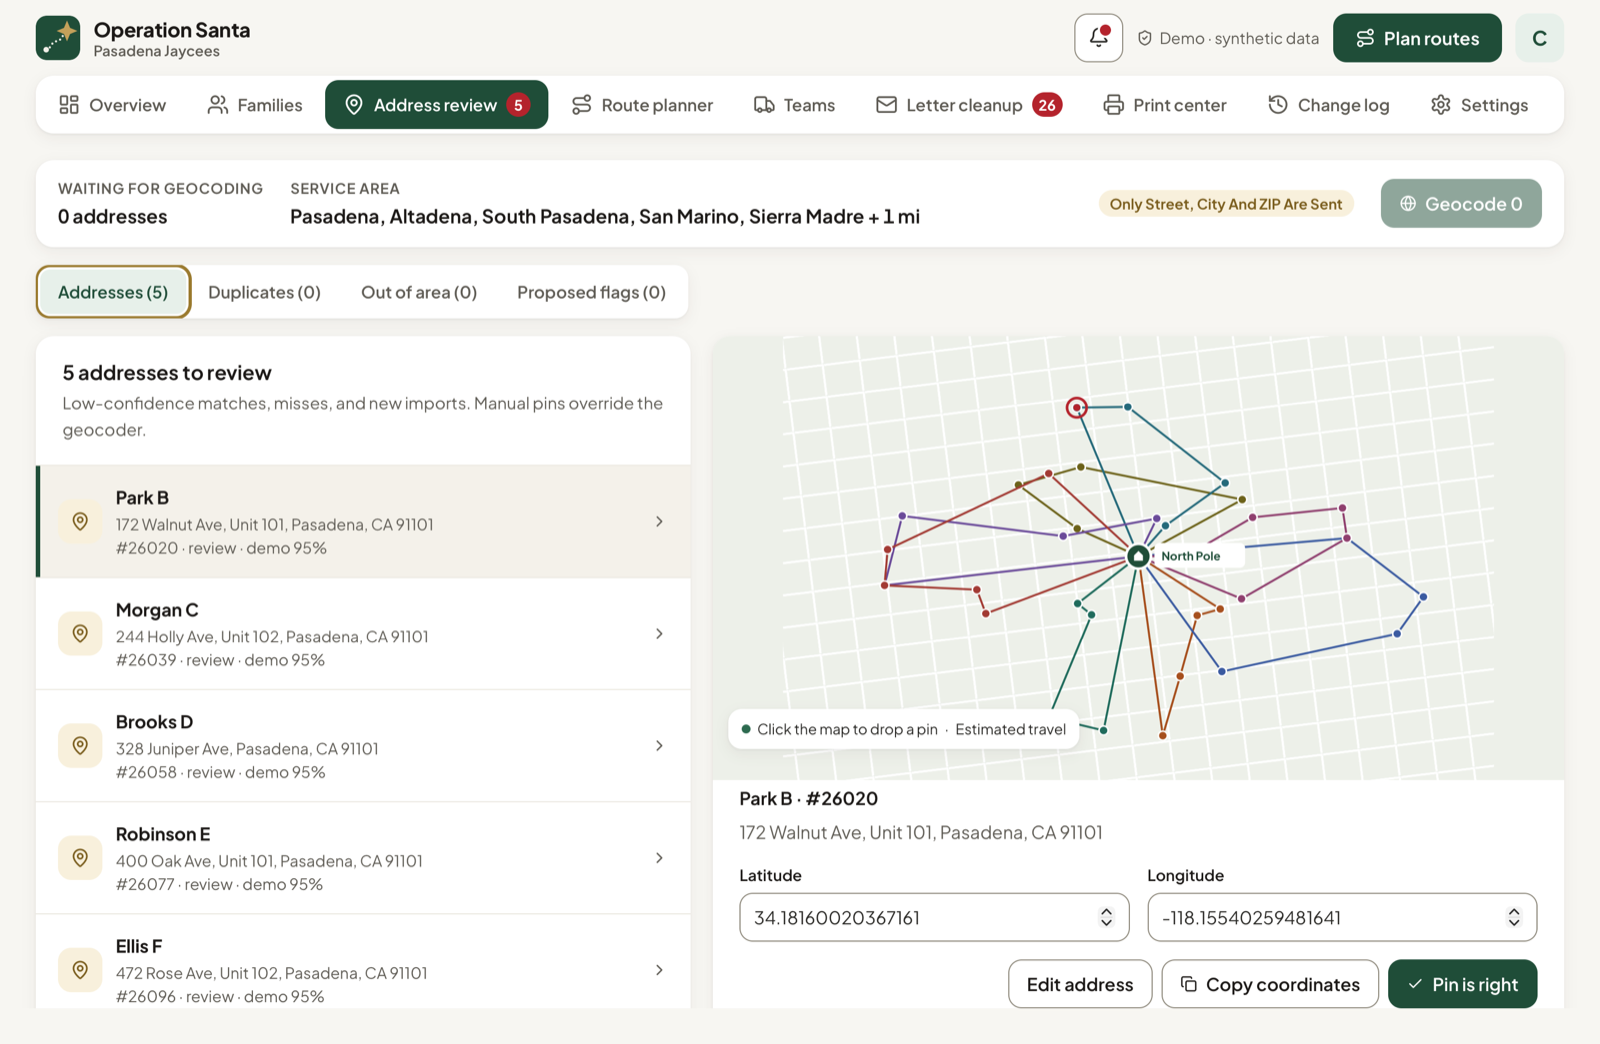
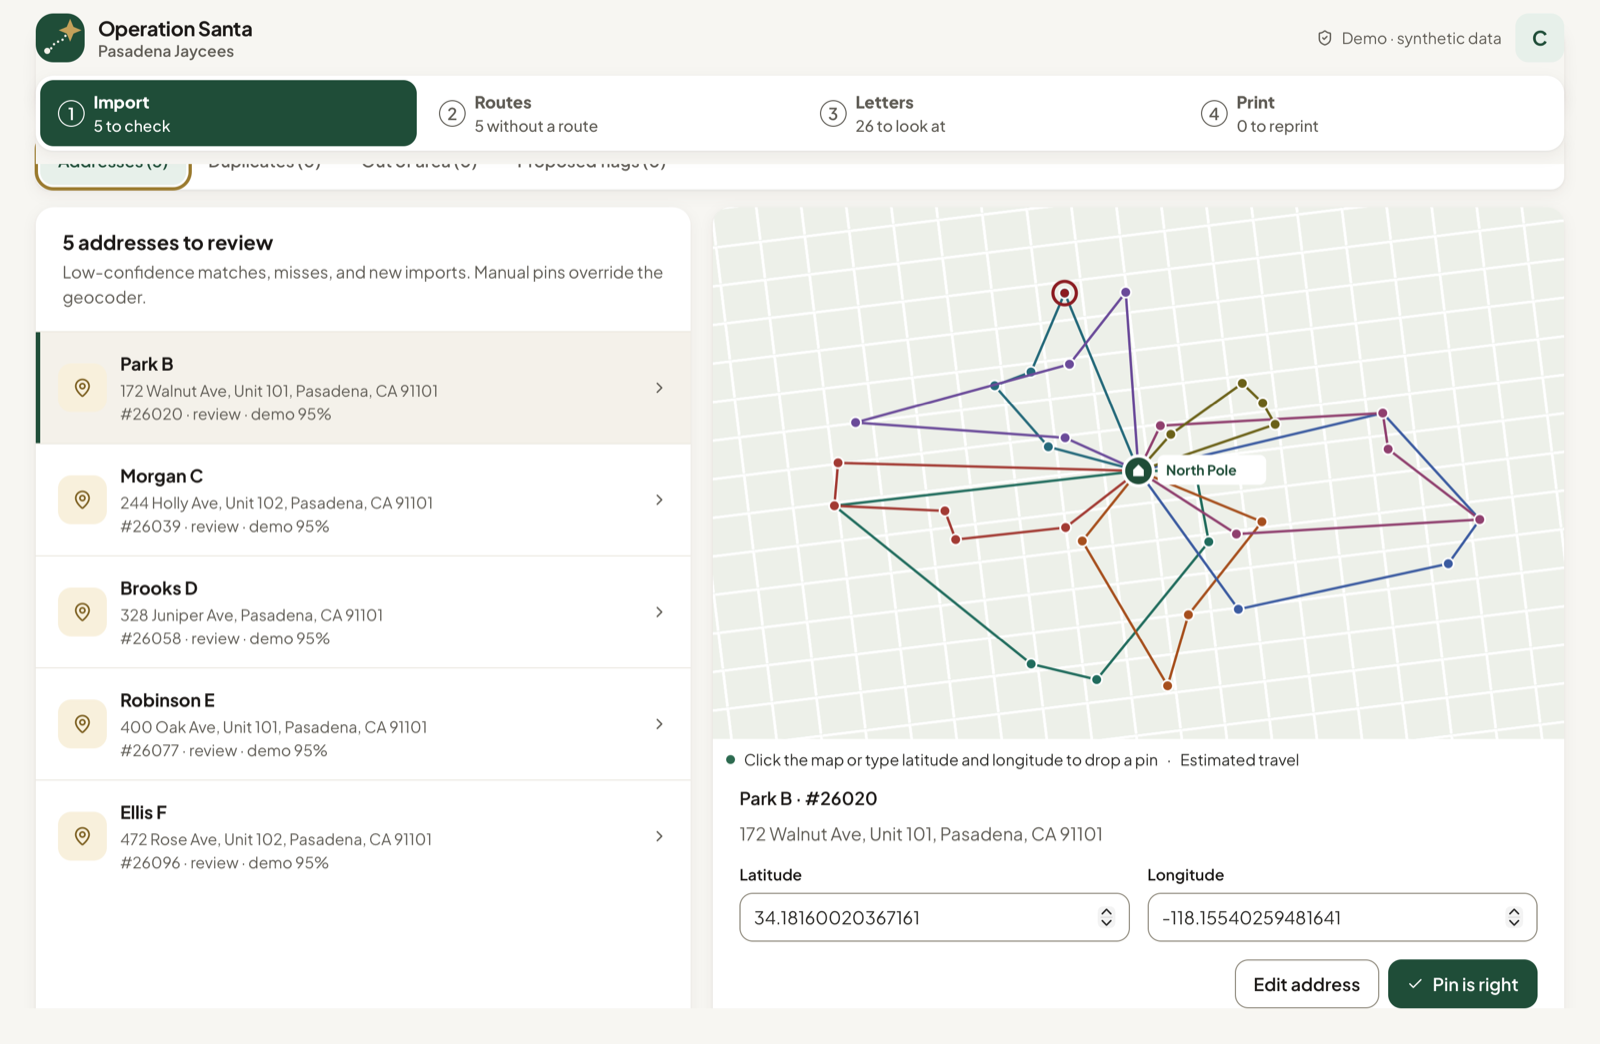
Phase 5c: organize the guides by the four steps and retake screenshots
Guides name the steps (1 Import, 2 Routes, 3 Letters, 4 Print) instead of the
old tabs, Letters gets its own section, and the home page opens on the new
Create or open season screenshot. All guide screenshots retaken with
npm run guides:screenshots.

diff --git a/site/sign-ups/cleanup-packets.md b/site/sign-ups/cleanup-packets.md
@@ -1,6 +1,6 @@
 ---
 title: Cleanup packets
-parent: "November: sign-ups"
+parent: "3. Letters"
 nav_order: 6
 description: "Share batches of letters with volunteer cleaners as small encrypted files, and merge their work back."
 ---
@@ -24,7 +24,7 @@ Sending letters to helpers is off by default. To turn it on, go to **Settings** 
 
 ## For the coordinator: send a packet
 
-1. Go to **Letter cleanup** and click **Cleanup packet**.
+1. Open **3 Letters** and click **Cleanup packet**.
 2. Choose which families go in it:
    - "From Entry ID" and "To Entry ID" (for example 26001 to 26199), or leave them blank for first and last, and/or
    - "Only route (optional)" for one route.
@@ -37,10 +37,10 @@ You can keep working on the same letters while the packet is out. If you both ch
 ## For letter cleaners: clean a packet
 
 1. [Install the app]({{ '/start-here/install/' | relative_url }}) if you haven't.
-2. Go to **Settings**, put your name in "Your display name", and click **Save settings**. Your name goes on every letter you review and on the file you send back.
-3. From the start screen, click **Open encrypted season** and choose the packet. In a season with **Send letters to helpers** enabled, you can also click your initial and choose **Open a cleanup packet**.
-4. Type the "Packet passphrase" the coordinator gave you and click **Choose packet file**. Pick the `.opsanta-packet` file.
-5. The app opens in **packet mode**: the top right says "Cleanup packet · not a season file", and you see only that packet's letters, on the Letter cleanup page.
+2. On **Create or open season**, click **Open encrypted season** and choose the `.opsanta-packet` file.
+3. Type the packet passphrase and click **Open packet**. The **Letters** step opens with only the families in the packet.
+4. Click your initial, choose **Settings**, enter your name under “Your display name”, and click **Save settings**.
+5. Return to **Letters**.
 6. Open the **All letters** tab and read each letter: **Looks good · next**, **Flag** or **Don't print**. See [Letter cleanup]({{ '/sign-ups/letter-cleanup/' | relative_url }}#look-at-the-flagged-letters).
 7. When you're done (or need to stop), click **Save edited packet**, type a packet passphrase, and click **Choose where to save**. The suggested name is like `Cleaned by Ana.opsanta-packet`.
 8. Send that file back to the coordinator, and the passphrase separately.
@@ -52,7 +52,7 @@ Packet mode doesn't save as you go. Click **Save edited packet** before you clos
 
 ## For the coordinator: merge a returned packet
 
-1. Open your season. Go to **Letter cleanup** and click **Import returned packet**.
+1. Open your season. Open **3 Letters** and click **Import returned packet**.
 2. Type the passphrase the cleaner used and click **Choose packet file**.
 3. The app merges the cleaner's changes letter by letter: "14 letter changes merged from Ana. 1 conflicts to resolve."
 4. If you and the cleaner both changed the same letter, a box shows **YOURS** and **THEIRS** side by side. Click **Keep mine** or **Take theirs** for each.

diff --git a/site/index.md b/site/index.md
@@ -11,16 +11,23 @@ Every Christmas Eve, Pasadena Jaycees Santa teams visit hundreds of local famili
 
 These guides follow the season in order. Find the step you're on, or start with [your role]({{ '/roles/' | relative_url }}).
 
-![The Overview page of the built-in demo season (fictional families): stat cards, route overview and task list]({{ '/assets/images/overview.png' | relative_url }})
+![Create or open season in Operation Santa]({{ '/assets/images/create-or-open.png' | relative_url }})
+
+| Step in the app | Guide |
+|---|---|
+| **1 Import** | [Bring in sign-ups and check addresses.]({{ '/sign-ups/' | relative_url }}) |
+| **2 Routes** | [Add teams and plan the evening.]({{ '/routing/' | relative_url }}) |
+| **3 Letters** | [Review flagged letters and drawings.]({{ '/letters/' | relative_url }}) |
+| **4 Print** | [Check, print and reprint team packets.]({{ '/printing/' | relative_url }}) |
 
 ## The season at a glance
 
 | When | What happens | Who | Start here |
 |---|---|---|---|
 | Before November | Install the app, create the season file | Coordinator | [Start here]({{ '/start-here/' | relative_url }}) |
-| November | Sign-ups come in. Import them, check addresses, read letters | Coordinator, route planner, letter cleaners | [November: sign-ups]({{ '/sign-ups/' | relative_url }}) |
-| From December 1 | Draft routes, add Santa teams, fit in late sign-ups | Route planner, coordinator | [December: routes]({{ '/routing/' | relative_url }}) |
-| About December 19 | Freeze the plan, check, print team packets | Print lead, coordinator | [December 19: printing]({{ '/printing/' | relative_url }}) |
+| November | Sign-ups come in. Import them, check addresses, read letters | Coordinator, route planner, letter cleaners | [1. Import]({{ '/sign-ups/' | relative_url }}) |
+| From December 1 | Draft routes, add Santa teams, fit in late sign-ups | Route planner, coordinator | [2. Routes]({{ '/routing/' | relative_url }}) |
+| About December 19 | Freeze the plan, check, print team packets | Print lead, coordinator | [4. Print]({{ '/printing/' | relative_url }}) |
 | December 20–23 | Late changes, replacement pages, calls to team leads | Coordinator, print lead | [Reprints and the call list]({{ '/printing/reprints/' | relative_url }}) |
 | December 24 | Teams leave the North Pole at 4:30 PM | Santa team leads | [Christmas Eve]({{ '/christmas-eve/' | relative_url }}) |
 | By January 31 | Purge children's and families' details | Coordinator | [After the season]({{ '/after-the-season/purge/' | relative_url }}) |

diff --git a/site/sign-ups/address-review.md b/site/sign-ups/address-review.md
@@ -1,8 +1,8 @@
 ---
 title: Address review
-parent: "November: sign-ups"
+parent: "1. Import"
 nav_order: 4
-description: "Geocode addresses, fix the ones the map can't find, and sort out duplicates, out-of-area families and proposed flags."
+description: "Check the automatic address lookup, fix the ones the map can't find, and sort out duplicates, out-of-area families and proposed flags."
 ---
 
 # Address review
@@ -21,10 +21,9 @@ The page has four tabs: **Addresses**, **Duplicates**, **Out of area** and **Pro
 {: .why }
 Routes can only be planned for families the app can place on a map. In 2025 MyRouteOnline did this inside three separate accounts, and blank address parts printed as "None" in about 212 addresses. The app looks addresses up itself, accepts the confident matches, and puts only the doubtful ones in front of a person.
 
-1. Go to **Address review**. The top shows "WAITING FOR GEOCODING" with a count.
-2. Click **Geocode** followed by that number (for example **Geocode 120**).
-3. Wait. The app first checks addresses it has already looked up, then sends the rest to the US Census geocoder ("Sending 120 addresses to the US Census geocoder…"), then tries OpenStreetMap for any the Census missed.
-4. A message sums it up: "Geocoded 120: 0 from cache, 112 Census, 5 OpenStreetMap, 3 not found."
+Address lookup starts when you accept the import. The app checks its cache, asks the US Census geocoder for the remaining addresses, then tries OpenStreetMap for any the Census missed.
+
+Open **Import** and choose **Address review** to see the results. If you correct an address or a provider is unavailable, the **Geocode** button retries the remaining addresses.
 
 Confident matches with a valid ZIP are accepted automatically. Low-confidence matches, misses and missing ZIPs stay on the **Addresses** tab.
 

diff --git a/site/reference/privacy.md b/site/reference/privacy.md
@@ -26,8 +26,8 @@ The season holds children's names, letters and drawings, and families' addresses
 
 | To | What | When |
 |---|---|---|
-| US Census geocoder | Street, city, state and ZIP. No names, units, phones or letters. | **Geocode** in Address review |
-| OpenStreetMap (Nominatim) | Street, city, state and ZIP of addresses the Census couldn't find | **Geocode** |
+| US Census geocoder | Street, city, state and ZIP. No names, units, phones or letters. | After **Accept import** and when retrying **Geocode** in Address review |
+| OpenStreetMap (Nominatim) | Street, city, state and ZIP of addresses the Census couldn't find | During address lookup for unmatched addresses |
 | Airtable | Requests to read the sign-ups table, with the read-only token | **Sync Airtable**, and refreshing expired drawing links. Both only with Settings ▸ Advanced ▸ "Airtable Sync" on |
 | Airtable's file links | Requests to download each upload | After each import |
 | GitHub | A check for a new version | When the app opens, and **Check for updates** (downloaded copies only) |
@@ -38,7 +38,7 @@ The **phone links** and the QR codes on each packet's cover are Google Maps link
 
 ## Rules for volunteers
 
-- Never put real family details in an email, chat, shared document, bug report or screenshot. Use the demo season for screenshots and questions.
+- Never put real family details in an email, chat, shared document, bug report or screenshot. Use a season containing only fictional families for screenshots and questions.
 - Share a passphrase separately from its file: the file by email or drive, the passphrase by phone or text.
 - Keep the season passphrase in the club's password manager, and a sealed copy with the treasurer.
 - Lock the season (**avatar** ▸ **Lock now**) when you step away. It locks itself after 30 minutes.

diff --git a/site/routing/late-changes.md b/site/routing/late-changes.md
@@ -1,6 +1,6 @@
 ---
 title: Late changes and the freeze
-parent: "December: routes"
+parent: "2. Routes"
 nav_order: 3
 description: "Fit late sign-ups into the plan without starting over, freeze it before printing, and record why anything changes."
 ---
@@ -22,8 +22,8 @@ In 2025, after the route sheets were printed, 12 stops were dropped, 2 added and
 A story: on December 21, after the plan is frozen, the Park family calls the hotline. They missed the form, and the committee agrees to visit them.
 
 1. Add them: **Families** ▸ **Add family** for a phone call, or import or sync again for late form sign-ups.
-2. Geocode them in **Address review** (**Geocode 1**), and fix the pin if needed.
-3. Go to **Route planner** and click **Insert new families**. (It's there once the plan is frozen. Before the freeze, use **Rebalance unlocked** instead.)
+2. After the automatic lookup, open **Import** → **Address review** and fix the pin if needed. For a family added by hand, click **Geocode** there.
+3. Open **2 Routes** and click **Insert new families**. (It's there once the plan is frozen. Before the freeze, use **Rebalance unlocked** instead.)
 4. If a route has been printed, choose a reason, such as **added late**, and click **Record & continue**.
 5. Read the message, for example "1 families inserted."
 
@@ -45,7 +45,7 @@ They come off their route at once. The route's packet shows "Needs reprint" in t
 
 Freeze the plan when the routes are final, just before printing (about December 19).
 
-1. Go to **Route planner**.
+1. Open **2 Routes**.
 2. Click **Freeze plan**. The badge above the route list changes from "Draft" to "Frozen".
 
 While the plan is frozen:

diff --git a/site/routing/route-planner.md b/site/routing/route-planner.md
@@ -1,6 +1,6 @@
 ---
 title: Route planner
-parent: "December: routes"
+parent: "2. Routes"
 nav_order: 2
 description: "Plan balanced routes that fit the evening, then adjust them with local knowledge."
 ---
@@ -24,7 +24,7 @@ In 2025 three people planned routes in three separate MyRouteOnline accounts, so
 
 ## How the app times a route
 
-Each stop takes a **base time** (7 minutes), plus time for each extra child, an apartment, a gate code and extra toys, minus a little when the next stop is in the same building. Driving is estimated from the distance at an average speed, plus a minute and a half to park. All of these are in the planner's [Route settings](#route-settings).
+A new season starts with **12 minutes per family** and **4 minutes for parking per building visit**, plus estimated driving time. Families in the same building share a parking allowance. Check an existing season’s values in [Route settings](#route-settings).
 
 Every route leaves the North Pole at the departure time (4:30 PM by default) and comes back there. Two limits matter:
 
@@ -35,7 +35,7 @@ The "Estimated travel" badge is a reminder that times are estimates from straigh
 
 ## Plan the routes
 
-1. Go to **Route planner**.
+1. Open **2 Routes**.
 2. Choose how many teams to plan for, under "Fleet":
    - **Fixed count**: type the number of teams you have in "Teams".
    - **Fewest that fit**: the app works out the smallest number of teams that gets every family home within the hard maximum.

diff --git a/site/sign-ups/index.md b/site/sign-ups/index.md
@@ -1,11 +1,11 @@
 ---
-title: "November: sign-ups"
+title: "1. Import"
 nav_order: 4
 has_children: true
-description: "Bring sign-ups in from Airtable, check addresses, and read every letter."
+description: "Bring sign-ups in from Airtable, check addresses, and resolve sign-up questions."
 ---
 
-# November: sign-ups
+# 1. Import
 
 The sign-up form opens around November 1 and home-visit sign-ups close in early December. You don't have to wait for the form to close: import as often as you like, and each import only adds and updates.
 
@@ -14,6 +14,5 @@ A good weekly rhythm for the coordinator:
 1. [Import the Airtable CSV]({{ '/sign-ups/import-csv/' | relative_url }}) or [sync from Airtable]({{ '/sign-ups/airtable-sync/' | relative_url }}).
 2. Work through [Address review]({{ '/sign-ups/address-review/' | relative_url }}): geocode, then duplicates, out of area and proposed flags.
 3. Fix anything odd in [Families]({{ '/sign-ups/families/' | relative_url }}).
-4. Send a batch of letters to a cleaner as a [cleanup packet]({{ '/sign-ups/cleanup-packets/' | relative_url }}), or [read them yourself]({{ '/sign-ups/letter-cleanup/' | relative_url }}).
 
-The Overview's task list keeps count of what's left.
+The number under **Import** counts families with an address, duplicate, service-area or flag question. Continue in [Routes]({{ '/routing/' | relative_url }}) or [Letters]({{ '/letters/' | relative_url }}).

diff --git a/site/sign-ups/import-csv.md b/site/sign-ups/import-csv.md
@@ -1,6 +1,6 @@
 ---
 title: Import the Airtable CSV
-parent: "November: sign-ups"
+parent: "1. Import"
 nav_order: 1
 description: "Download the sign-ups from Airtable and import them, as often as you like."
 ---
@@ -28,7 +28,7 @@ Use a view that shows **every** field. If the view hides a column, the app impor
 
 ## 2. Import it
 
-1. Open your season. Imports don't work in the demo; you'll see "Create or open an encrypted season before importing family records."
+1. Open your encrypted season.
 2. Open **Import** and click **Import Airtable export (.csv)**.
 3. Choose the CSV file you downloaded. Excel files (`.xlsx`) work too.
 
@@ -48,7 +48,7 @@ Read the yellow warnings, if any. They name the problem and what to do. For exam
 - "… gave a hardship answer the app doesn't recognize, so none … proposed for pickup": check those families in Families and set their delivery yourself.
 - "#26014: form says 3 children but 2 were filled in": open the family and check.
 
-Click **Accept import** to bring it in, or **Cancel import** to change nothing.
+Click **Accept import** to bring in the sign-ups. Address lookup and drawing downloads start automatically. Open **Import** → **Address review** for addresses that need a decision.
 
 !["Review your import" with its five counts and one changed demo family expanded]({{ '/assets/images/import-review.png' | relative_url }})
 

diff --git a/site/printing/pickup-event.md b/site/printing/pickup-event.md
@@ -1,6 +1,6 @@
 ---
 title: Pickup event packet and coordinator holds
-parent: "December 19: printing"
+parent: "4. Print"
 nav_order: 4
 description: "Print the check-in sheet, letters and labels for pickup families, and the letters the coordinator is holding back."
 ---
@@ -27,7 +27,7 @@ Families are on the pickup list when their "Delivery" is **pickup**: set in [Fam
 To print:
 
 1. Look at any of their letters the app flags in [Letter cleanup]({{ '/sign-ups/letter-cleanup/' | relative_url }}). The packet won't print while a pickup family's letter needs a look or an upload is still downloading.
-2. Go to **Print center** ▸ "Other printouts and exports".
+2. Open **4 Print** ▸ "Other printouts and exports".
 3. Click **Pickup event packet (N)**, where N is the number of pickup families. Save the PDF (`Pickup event - v1.pdf`).
 
 The packet holds, sorted by family name:
@@ -44,7 +44,7 @@ Some letters shouldn't go out with the Santa teams: a single letter marked **Don
 
 The coordinator keeps the full letters in a separate PDF:
 
-1. Go to **Print center** ▸ "Other printouts and exports".
+1. Open **4 Print** ▸ "Other printouts and exports".
 2. Click **Coordinator holds (N)**. Save the PDF (`Coordinator holds - 2026-12-19 1430.pdf`).
 
 It has one letter page per held family, by Entry ID. Keep it with the coordinator at the North Pole.

diff --git a/site/start-here/tour.md b/site/start-here/tour.md
@@ -34,18 +34,18 @@ The Overview answers "what's left to do?"
 
 - **Stat cards**: families signed up (home, pickup and special), children and drawings ready, routes planned, and packets ready to print.
 - **A progress strip**: how many families are imported, verified, geocoded and routed.
-- **Route overview**: the first eight routes, with leave and return times, stops, miles and team. Click one to open it in the Route planner.
+- **Route overview**: the first eight routes, with leave and return times, stops, miles and team. Click one to open it in **2 Routes**.
 - **Task list**: each line is a job with a count. Click it to go to the right page. When its count reaches zero it gets a check mark.
 
 | Task | Goes to |
 |---|---|
-| Review addresses | Address review |
-| Confirm proposed flags | Address review |
-| Look at flagged letters | Letter cleanup |
-| Fix uploads | Letter cleanup |
-| Find a route for everyone | Route planner |
-| Assign every route a team | Route planner |
-| Reprint changed packets | Print center |
+| Review addresses | 1 Import ▸ Address review |
+| Confirm proposed flags | 1 Import ▸ Address review |
+| Look at flagged letters | 3 Letters |
+| Fix uploads | 3 Letters |
+| Find a route for everyone | 2 Routes |
+| Assign every route a team | 2 Routes |
+| Reprint changed packets | 4 Print |
 
 ## Messages
 

diff --git a/site/routing/teams.md b/site/routing/teams.md
@@ -1,6 +1,6 @@
 ---
 title: Santa teams
-parent: "December: routes"
+parent: "2. Routes"
 nav_order: 1
 description: "Add Santa teams one by one or from a spreadsheet, and give each route a team."
 ---
@@ -19,7 +19,7 @@ A team lead's name and phone number go on the cover of their packet, and on the 
 
 ## Add a team
 
-1. Go to **Teams** and click **Add team**.
+1. Open **2 Routes**, choose **Teams** and click **Add team**.
 2. Fill in the "Santa team" box:
    - "Team name" (required), for example "Team 7"
    - "Team lead"
@@ -49,7 +49,7 @@ Click **Import CSV** and choose the file. The message says how many teams were i
 
 ## Give each route a team
 
-1. Go to **Route planner** and click a route in the list.
+1. Open **2 Routes** and click a route in the list.
 2. Under the map, choose from **Team**. Each choice shows the lead's name, "ES" if the team has a Spanish speaker, and "(also Route 5)" if the team already has a route.
 3. If the route has been printed, the app asks for a reason, and the route will need a reprint, because the team is on the cover.
 

diff --git a/site/printing/print-center.md b/site/printing/print-center.md
@@ -1,6 +1,6 @@
 ---
 title: Check and print team packets
-parent: "December 19: printing"
+parent: "4. Print"
 nav_order: 1
 description: "Fix what blocks printing, then print one complete packet per Santa team."
 ---
@@ -33,9 +33,9 @@ See [Your team packet]({{ '/christmas-eve/team-lead/' | relative_url }}) for how
 
 ## 1. Check before printing
 
-1. Go to **Print center**.
+1. Open **4 Print**.
 2. Under "Check before printing", read the summary: "3 problems block printing. 12 warnings." or "No blocking problems."
-3. Click **Show details** to list them, with the route and Entry ID for each.
+3. Click **Show details** for the affected routes and Entry IDs. Use **Review routes**, **Review addresses**, **Review families** or **Review letters** to go directly to the work that blocks printing.
 
 Each route also has its own card saying "Ready to export", "Ready · 2 warnings" or "2 checks block printing", with the first few problems. Click **Review** on a card to open that route in the Route planner.
 
